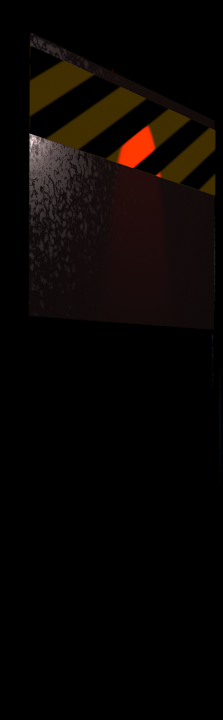
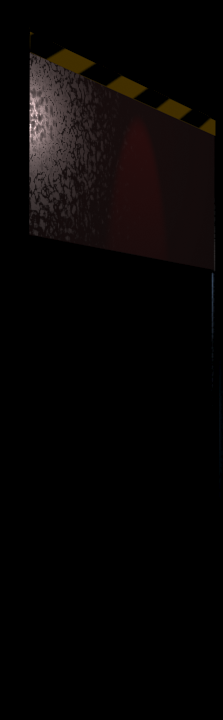
Tweaks to left door frames

diff --git a/src/app/os/programs/fnaf/core/Animator.ts b/src/app/os/programs/fnaf/core/Animator.ts
@@ -12,6 +12,8 @@ interface animationConfig {
     path: string,
     frameCount: number,
     loop: boolean
+    isPlaying?: boolean,
+    reverse?: boolean,
 }
 
 export class Animator {
@@ -45,12 +47,16 @@ export class Animator {
         'lDoor': {
             path: '/programs/fnaf/office/doorsAndLights/lDoor',
             frameCount: 14,
-            loop: false
+            loop: false,
+            isPlaying: false,
+            reverse: false,
         },
         'rDoor': {
             path: '/programs/fnaf/office/doorsAndLights/rDoor',
             frameCount: 14,
-            loop: false
+            loop: false,
+            isPlaying: false,
+            reverse: false,
         },
         'lLight': {
             path: '/programs/fnaf/office/officeInside/58.png',
@@ -169,6 +175,42 @@ export class Animator {
         }
     }
 
+    private animateOnce(
+        animId: animationId,
+        img: HTMLImageElement,
+        fps: number
+    ) {
+        const state = this.animStates[animId];
+        const config = this.ANIMATIONS[animId];
+        const msPerFrame = 1000 / fps;
+
+        if (!config.reverse) {
+            if (state.currentFrame === config.frameCount - 1) config.isPlaying = false;
+        } else {
+            if (state.currentFrame === 0) config.isPlaying = false;
+        }
+
+        console.log(`IsLDoor Playing: ${config.isPlaying}`);
+
+        if (!config.isPlaying) return;
+
+        if (this.timestamp - state.lastUpdateTime > msPerFrame) {
+            if (config.loop) {
+                const newFrame = config.reverse ? state.currentFrame - 1 : state.currentFrame + 1;
+                state.currentFrame = (newFrame) % config.frameCount;
+                img.src = `${config.path}/${state.currentFrame}.png`;
+            } else {
+                if (state.currentFrame + 1 < config.frameCount) {
+                    state.currentFrame++;
+                    img.src = `${config.path}/${state.currentFrame}.png`;
+                }
+            }
+
+            state.lastUpdateTime = this.timestamp;
+        }
+    }
+
+
     private animateMenu() {
         if (this.engine.sceneManager.getSceneName() !== 'menu') return;
 
@@ -209,24 +251,24 @@ export class Animator {
         const lDoor = this.engine.sceneManager.officeElements['lDoor'];
         const rDoor = this.engine.sceneManager.officeElements['rDoor'];
 
-        if (lDoor) {
+        if (lDoor && this.ANIMATIONS['lDoor'].isPlaying) {
             lDoor.style.opacity = "1";
-            this.animate(
+            this.animateOnce(
                 'lDoor',
                 lDoor,
                 30
             );
-            lDoor.style.opacity = "0";
+            // lDoor.style.opacity = "0";
         }
 
-        if (rDoor) {
+        if (rDoor && this.ANIMATIONS['rDoor'].isPlaying) {
             rDoor.style.opacity = "1";
-            this.animate(
+            this.animateOnce(
                 'rDoor',
                 rDoor,
                 30
             );
-            rDoor.style.opacity = "0";
+            // rDoor.style.opacity = "0";
         }
     }
 
@@ -234,15 +276,24 @@ export class Animator {
         if (this.engine.sceneManager.getSceneName() !== 'game') return;
 
         let doorState;
+        let doorConfig;
         if (side === 'left') {
             doorState = this.animStates['lDoor'];
+            doorConfig = this.ANIMATIONS['lDoor'];
         } else {
             doorState = this.animStates['rDoor'];
+            doorConfig = this.ANIMATIONS['rDoor'];
         }
 
         if (!doorState) return;
 
-        doorState.currentFrame = 0;
+        if (doorState.currentFrame === 0) {
+            doorConfig.reverse = false;
+        } else if (doorState.currentFrame === doorConfig.frameCount - 1) {
+            doorConfig.reverse = true;
+        }
+
+        doorConfig.isPlaying = true;
         doorState.lastUpdateTime = this.timestamp;
     }
 

diff --git a/src/app/os/programs/fnaf/core/Engine.ts b/src/app/os/programs/fnaf/core/Engine.ts
@@ -132,7 +132,7 @@ export class Engine {
         this.rLight = false;
     }
 
-    public toggleDebug() { this.debug = !this.debug; console.log(this.debug) }
+    public toggleDebug() { this.debug = !this.debug; console.log(`Debug Mode: ${this.debug}`); }
 
     private log(message: string, ...args: any[]) {
         console.log(
